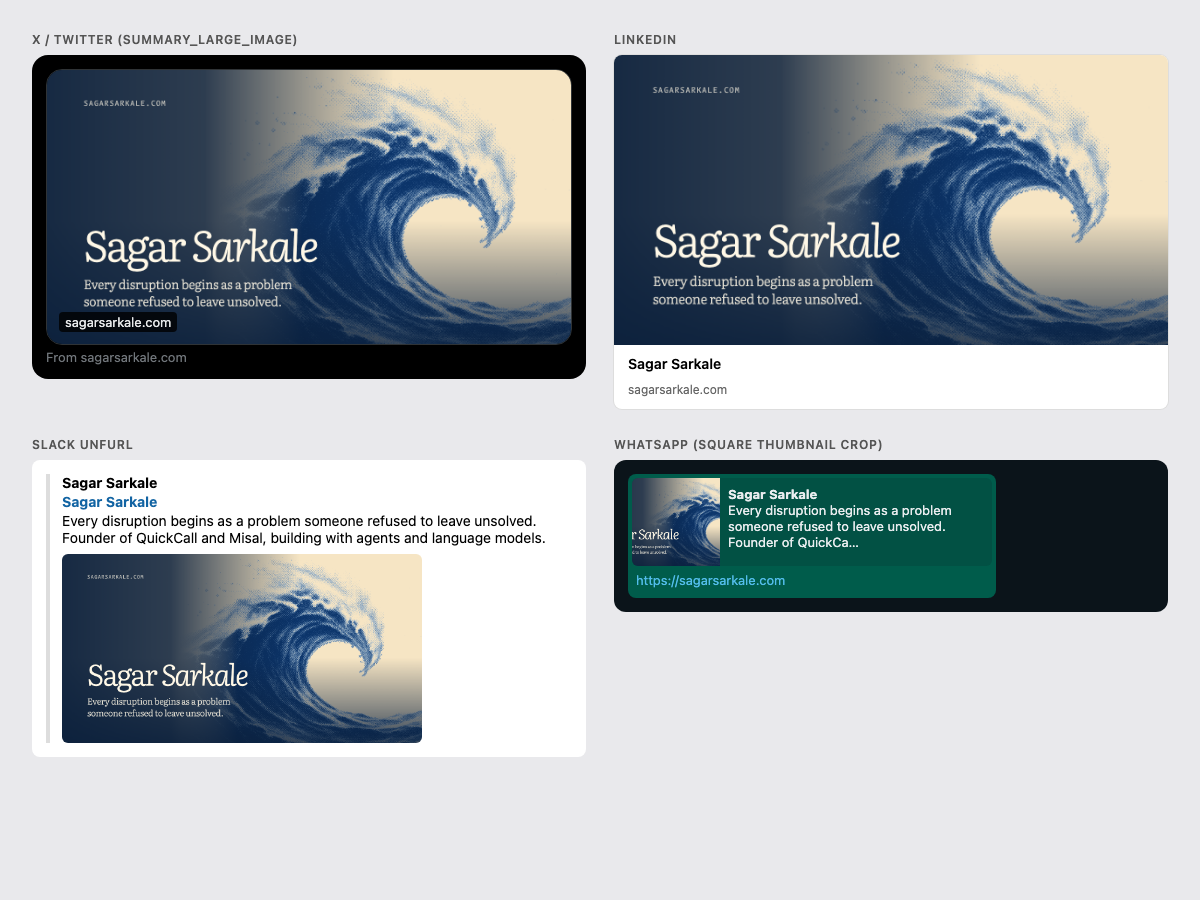
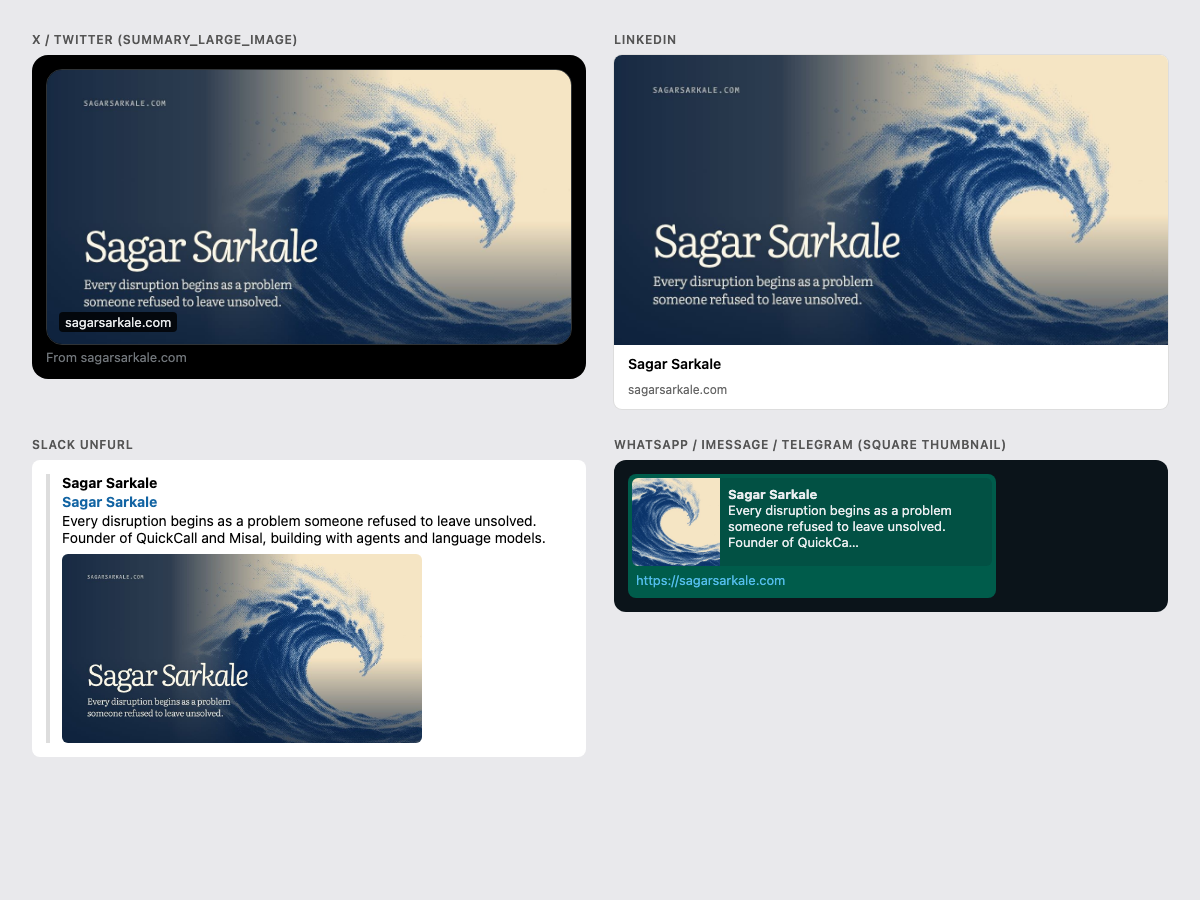
Add a square crest share image and keep share images light
Square thumbnails (WhatsApp, iMessage, Telegram) get the crest alone as a
second og:image while card platforms keep the landscape card. Both are
JPEG under 300KB so WhatsApp shows them.

Changed region(s): [[0.5242, 0.5289, 0.6167, 0.6533], [0.5858, 0.4667, 0.8325, 0.4978]]

diff --git a/tests/og-meta.spec.ts b/tests/og-meta.spec.ts
@@ -5,14 +5,19 @@ const site = process.env.TEST_SITE_URL ?? 'http://localhost:3002';
 test('the homepage shares the wave card with absolute Open Graph and X tags', async ({ page, request }) => {
   await page.goto(site);
   const meta = (key: string) => page.locator(`meta[property="${key}"], meta[name="${key}"]`).first().getAttribute('content');
-  expect(await meta('og:image')).toBe('https://sagarsarkale.com/social/home.png');
+  expect(await meta('og:image')).toBe('https://sagarsarkale.com/social/home.jpg');
   expect(await meta('og:image:width')).toBe('1200');
   expect(await meta('og:image:height')).toBe('630');
   expect(await meta('og:image:alt')).toContain('wave');
   expect(await meta('twitter:card')).toBe('summary_large_image');
-  expect(await meta('twitter:image')).toBe('https://sagarsarkale.com/social/home.png');
-  const image = await request.get(new URL('/social/home.png', site).href);
+  expect(await meta('twitter:image')).toBe('https://sagarsarkale.com/social/home.jpg');
+  const image = await request.get(new URL('/social/home.jpg', site).href);
   expect(image.status()).toBe(200);
-  expect(image.headers()['content-type']).toContain('image/png');
-  expect((await image.body()).length).toBeLessThan(5 * 1024 * 1024);
+  expect(image.headers()['content-type']).toContain('image/jpeg');
+  expect((await image.body()).length).toBeLessThan(300 * 1024);
+  const square = await page.locator('meta[property="og:image"]').nth(1).getAttribute('content');
+  expect(square).toBe('https://sagarsarkale.com/social/square.jpg');
+  const sq = await request.get(new URL('/social/square.jpg', site).href);
+  expect(sq.status()).toBe(200);
+  expect((await sq.body()).length).toBeLessThan(300 * 1024);
 });

diff --git a/src/app/layout.tsx b/src/app/layout.tsx
@@ -37,11 +37,19 @@ export const metadata: Metadata = {
     description: 'Every disruption begins as a problem someone refused to leave unsolved. Founder of QuickCall and Misal, building with agents and language models.',
     images: [
       {
-        url: '/social/home.png',
+        url: '/social/home.jpg',
         width: 1200,
         height: 630,
-        type: 'image/png',
+        type: 'image/jpeg',
         alt: 'Sagar Sarkale over a breaking indigo halftone wave: every disruption begins as a problem someone refused to leave unsolved.',
+      },
+      // Square crest for apps that show a square thumbnail instead of a card.
+      {
+        url: '/social/square.jpg',
+        width: 600,
+        height: 600,
+        type: 'image/jpeg',
+        alt: 'The crest of a breaking indigo halftone wave.',
       },
     ],
   },
@@ -49,7 +57,7 @@ export const metadata: Metadata = {
     card: 'summary_large_image',
     title: 'Sagar Sarkale',
     description: 'Every disruption begins as a problem someone refused to leave unsolved.',
-    images: [{ url: '/social/home.png', alt: 'Sagar Sarkale over a breaking indigo halftone wave.' }],
+    images: [{ url: '/social/home.jpg', alt: 'Sagar Sarkale over a breaking indigo halftone wave.' }],
     creator: '@sagar_sarkale',
   },
 };
